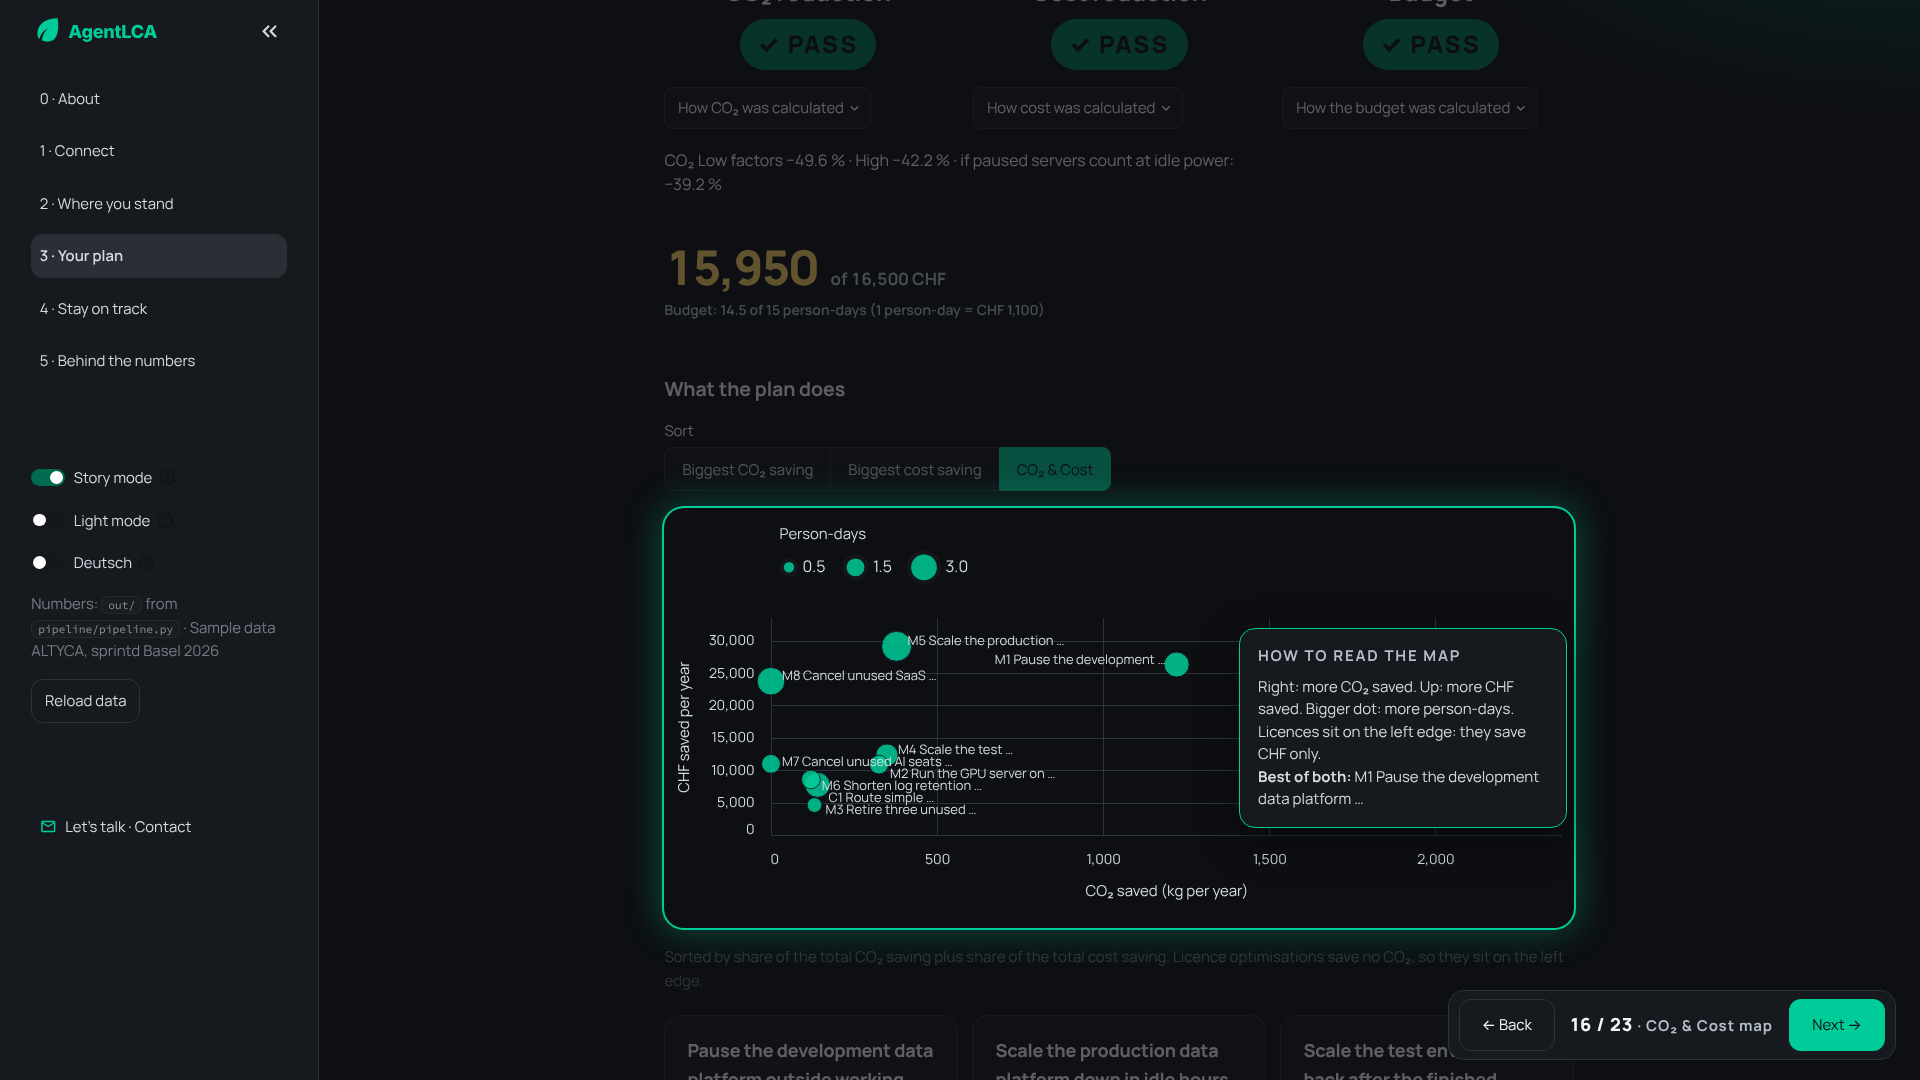
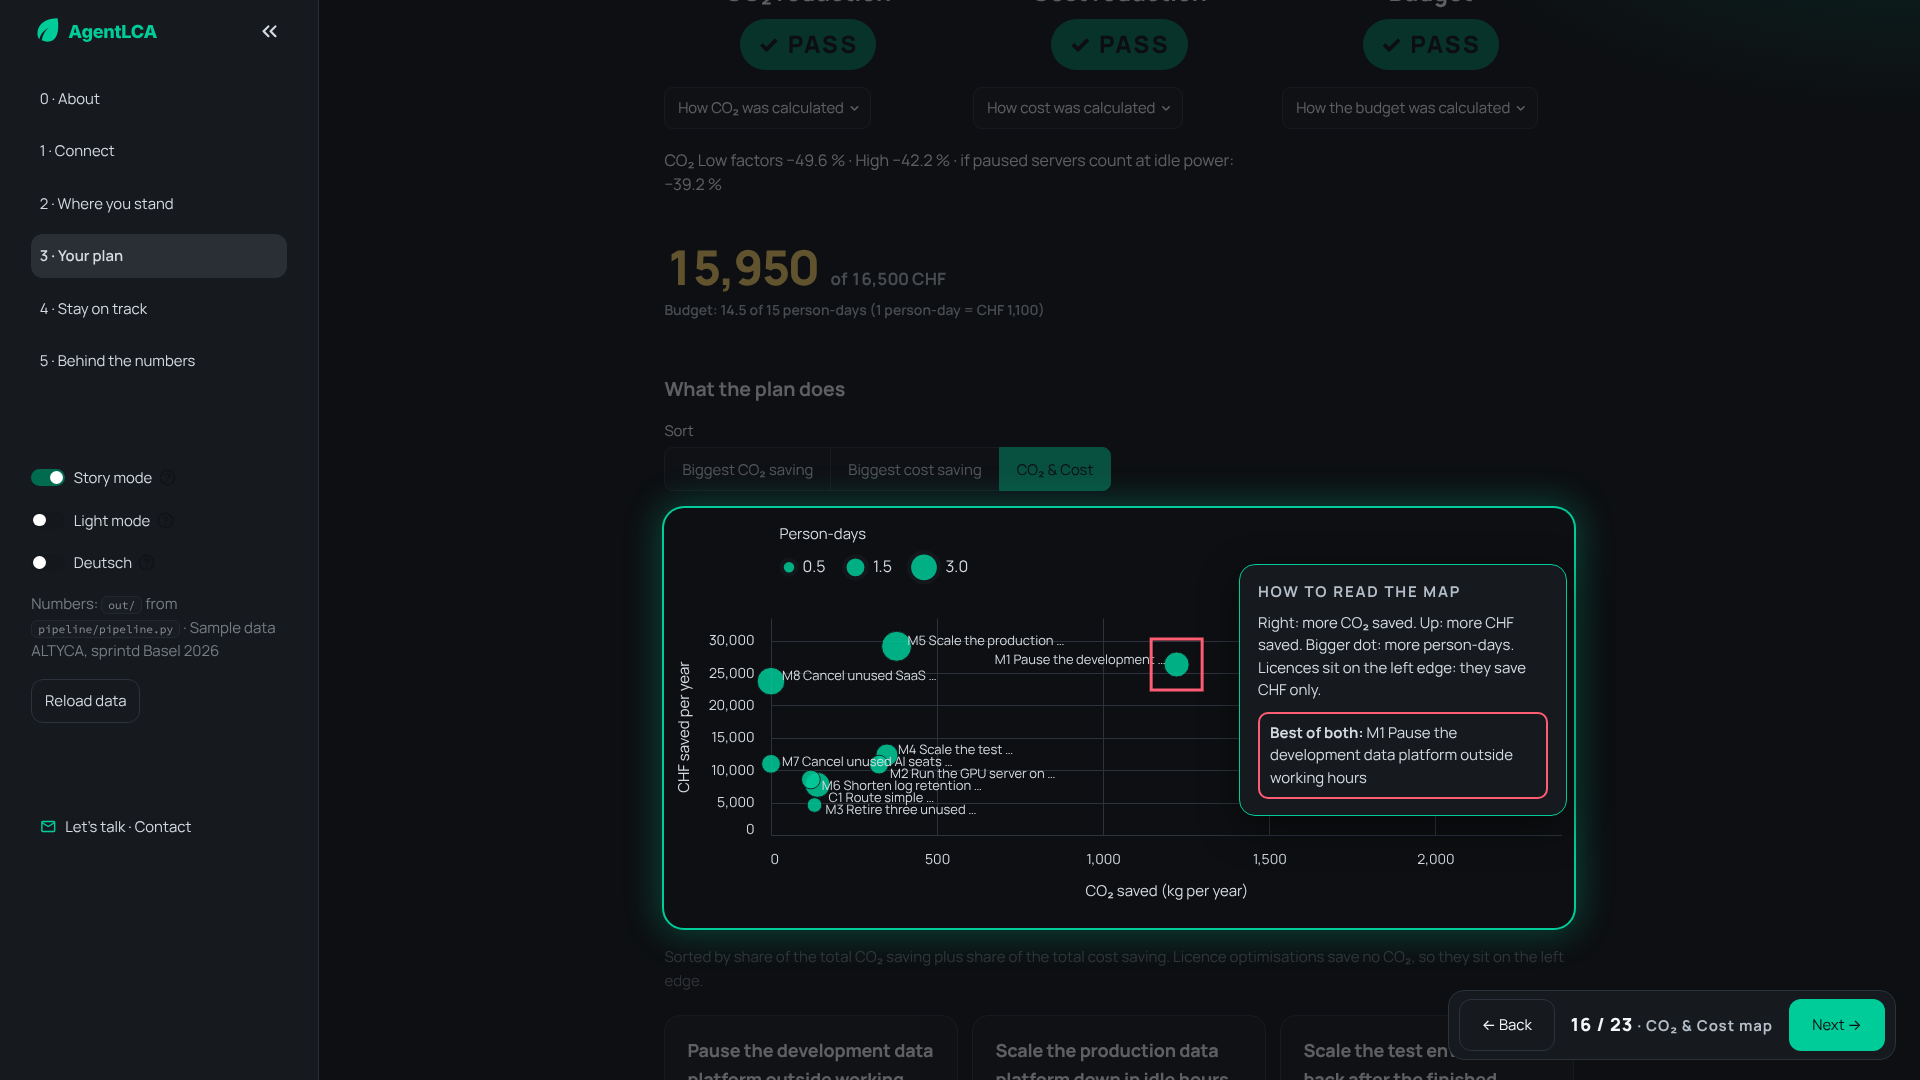
CO₂ & Cost map: red box around the best-of-both dot (M1) and around «Best of both» with the full title
Claude-Session: https://claude.ai/code/session_01X3xYSMquWVTkknJRvK9B19

Changed region(s): [[0.6562, 0.5194, 0.8125, 0.7639], [0.5938, 0.5806, 0.625, 0.6417]]

diff --git a/app/charts.py b/app/charts.py
@@ -213,8 +213,11 @@ def meter_list_html(rows: list[dict]) -> str:
     return "".join(out)
 
 
+HIGHLIGHT_RED = "#ff5d73"  # one-off highlight colour (the «best of both» box), not a series colour
+
+
 def optimisation_map(df: pd.DataFrame, x_title: str = "CO₂ saved (kg per year)", y_title: str = "CHF saved per year",
-                     size_title: str = "Person-days", room_right: bool = False) -> alt.Chart:
+                     size_title: str = "Person-days", room_right: bool = False, best_label: str = "") -> alt.Chart:
     """CO₂ against CHF per optimisation, one hue. Columns: co2, chf, pd, label, name. Dot size = person-days.
     Licence optimisations sit on the y-axis (0 kg): that is correct, they save francs only."""
     p = pal()
@@ -260,4 +263,10 @@ def optimisation_map(df: pd.DataFrame, x_title: str = "CO₂ saved (kg per year)
     enc = dict(x=alt.X("co2:Q", scale=xs), y=alt.Y("_ly:Q", scale=ys), text="label:N")
     t_l = alt.Chart(d[~right]).mark_text(align="left", dx=11, baseline="middle", color=p["ink2"], fontSize=13).encode(**enc)
     t_r = alt.Chart(d[right]).mark_text(align="right", dx=-11, baseline="middle", color=p["ink2"], fontSize=13).encode(**enc)
-    return _style((dots + t_l + t_r).properties(height=height))
+    layers = dots + t_l + t_r
+    if best_label and (d["label"] == best_label).any():  # a red square around the «best of both» dot
+        box = alt.Chart(d[d["label"] == best_label]).mark_square(
+            size=2600, filled=False, stroke=HIGHLIGHT_RED, strokeWidth=3, opacity=1).encode(
+            x=alt.X("co2:Q", scale=xs), y=alt.Y("chf:Q", scale=ys))
+        layers = layers + box
+    return _style(layers.properties(height=height))

diff --git a/app/app.py b/app/app.py
@@ -1257,10 +1257,13 @@ def _plan_middle(result: dict, rows: pd.DataFrame, selected: pd.DataFrame, level
         best = ordered.iloc[0] if not ordered.empty else None
         with st.container(key="beat_plan_map"):
             st.altair_chart(charts.optimisation_map(pts, i18n.tr("CO₂ saved (kg per year)"), i18n.tr("CHF saved per year"),
-                                                    i18n.tr("Person-days"), room_right=True), width="stretch")
+                                                    i18n.tr("Person-days"), room_right=True,
+                                                    best_label=pts["label"].iloc[0] if not pts.empty else ""),
+                            width="stretch")
             # A card on the chart, in the right part that room_right keeps free of dots.
             best_line = ("" if best is None else
-                         f"<br><b>{i18n.tr('Best of both')}:</b> {ui.esc(best['_id'])} {ui.esc(plan_sort.short_name(best['description'], 40))}")
+                         f'<span class="gx-best"><b>{i18n.tr("Best of both")}:</b> {ui.esc(best["_id"])} '
+                         f'{ui.esc(best["description"])}</span>')
             ui._raw(f'<div class="gx-card gx-callout"><p class="k">{i18n.tr("How to read the map")}</p>'
                     f'<p>{i18n.tr("Right: more CO₂ saved. Up: more CHF saved. Bigger dot: more person-days. Licences sit on the left edge: they save CHF only.", label=False)}'
                     f'{best_line}</p></div>')

diff --git a/app/ui.py b/app/ui.py
@@ -48,6 +48,7 @@ def esc(text) -> str:
     return _html.escape(str(text))
 
 CSS = """<style>
+.gx-best{display:block;margin-top:10px;padding:8px 10px;border:2px solid #ff5d73;border-radius:10px;}
 .gx-partners{display:flex;align-items:center;gap:22px;flex-wrap:wrap;margin:4px 0 14px;}
 .gx-partner{width:auto;max-width:220px;object-fit:contain;background:#ffffff;border-radius:12px;padding:8px 12px;}
 .gx-partner-txt{font-weight:800;font-size:20px;letter-spacing:.02em;color:var(--ink,#f2f4f5);border:1px solid var(--line,#262b33);border-radius:12px;padding:10px 14px;}
@@ -95,7 +96,7 @@ CSS = """<style>
 .st-key-beat_track_top [data-testid="stChatInput"] textarea{font-family:ui-monospace,SFMono-Regular,Menlo,Consolas,monospace;}
 @media (max-width:720px){.gx-log p{font-size:13.5px;}.gx-log p b{min-width:0;display:block;}}
 .st-key-beat_plan_map{position:relative;}
-.st-key-beat_plan_map [data-testid="stElementContainer"]:has(.gx-callout){position:absolute;right:8px;top:120px;width:min(340px,36%);z-index:5;}
+.st-key-beat_plan_map [data-testid="stElementContainer"]:has(.gx-callout){position:absolute;right:8px;top:56px;width:min(340px,36%);z-index:5;}
 .gx-callout{box-shadow:0 12px 40px rgba(0,0,0,.45);border-color:var(--teal,#00cc99) !important;padding:16px 18px !important;}
 .gx-callout p{font-size:15px !important;}
 @media (max-width:720px){.st-key-beat_plan_map [data-testid="stElementContainer"]:has(.gx-callout){position:static;width:auto;}}
